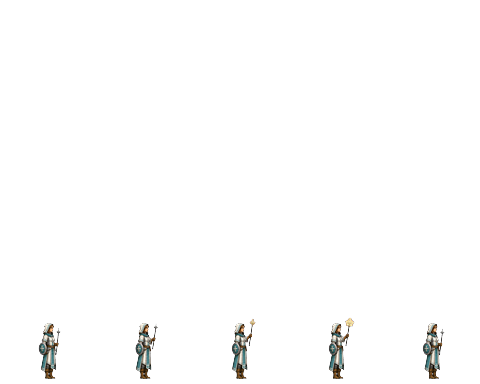
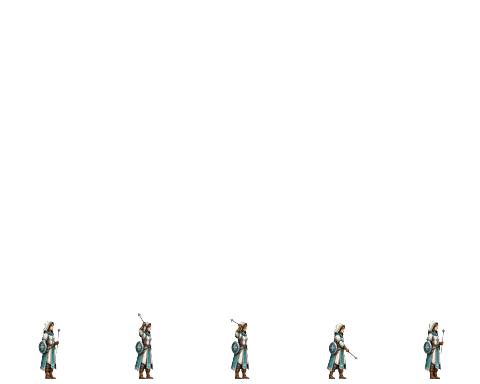
sprite: 僧侶の近接 attack を codex1 の melee 素材へ差替 (cast 流用を解消)
僧侶の attack シートは cast (詠唱) の 6F を [0,1,2,3,5] で間引いた流用で、
メイスを振る絵が 1 枚も無く「敵に殴りかかりながら祈っている」状態だった。
codex1 へ依頼した近接モーション (…-melee-right-6-v1) が納品されたので取り込む。

- 台帳 tools/codex1_sprites.json:
  - attack_dir を melee の -melee-right-safe-frame- 系統へ (raw-safe は未整列なので不採用)
  - ⚠ cast_dir を **明示**。省略時は attack_dir を流用する仕様のため、
    attack だけ差し替えると詠唱までメイス振りに化ける
  - attack_scale は 1.0 据置。auto は render_scale が cast にも掛かるため、
    cast_dir が別素材になった今は cast を -3.57% 縮め接地線を 1px ずらす
- 素材は walk と同一キャンバス・同一接地線で届いたため align 組み直し不要
- 差分は attack 2 枚のみ (walk / cast はバイト不変)
- index.html: cleric_attack ?v=4→5 (2箇所) / cleric_npcmale_attack に ?v=2 を新規付与 (3箇所)

受入ゲート: check_pose_alignment 両者 PASS (女 median +1.63% / 男 +0.00%)、
validate_sprite_outputs 両者 exit 0 (端接触なし)、md5 6/6 とも相違。
check_attack_scale --fail-on-warn = WARN 0 維持 (74/74 OK)。
driver_cleric_sprites 85/85 PASS / 負のコントロール(HEAD worktree) 77/85。
G7 は「cast と全コマ画素相違」へ反転し、N2 で HEAD 側に不具合が実在したことを画素で証明。

diff --git a/tools/driver_cleric_sprites.js b/tools/driver_cleric_sprites.js
@@ -4,9 +4,18 @@
  *
  *   node tools/driver_cleric_sprites.js [--headful] [--browser <path>] [--port N] [--root <dir>]
  *
- * 対象は index.html + tavern.html。2026-07-29 の差替内容:
+ * 対象は index.html + tavern.html。
+ *
+ * 第1段 (2026-07-29 `c32f785`) = 僧侶 4 種を codex1 素材へ差替:
  *   - 正規 (変種 index 0)  assets/cleric_{walk,attack,cast}.png         <- codex1 npc-female-cleric (**同名上書き**)
  *   - 変種 index 1-3 共有  assets/cleric_npcmale_{walk,attack,cast}.png <- codex1 npc-male-cleric v1b (新規)
+ *
+ * 第2段 (2026-07-29 本コミット) = **近接 attack を melee 素材へ差替**:
+ *   第1段の時点では codex1 素材に近接モーションが無く、attack は cast (詠唱) の 6F を
+ *   [0,1,2,3,5] で間引いた流用だった (= 殴りかかりながら祈っていた)。codex1 へ依頼した
+ *   …-melee-right-6-v1 が届いたので台帳の attack_dir を差し替え、同時に **cast_dir を明示**
+ *   した (省略すると attack_dir 流用で詠唱までメイス振りに化ける仕様のため)。
+ *   変わるのは attack 2 枚だけで、walk / cast はバイト不変。
  *
  *   G1  配線: SPRITE_VARIANTS.cleric / getSpriteSet が期待 URL を返す (変種 1-3 は同一 1 枚)
  *   G2  実体: 6 枚が 200 で読め、規格サイズ (walk/cast 576x384 / attack 480x384) である
@@ -14,15 +23,21 @@
  *   G4  重複コマ: row3 の全コマが互いに異なる (サイズ検査を素通りする軸)
  *   G5  当たり判定不変: CLASS_DEFS.cleric の displaySize / sprite
  *   G6  tavern: PARTY_PORTRAIT_SPRITES.cleric が 4 要素で全部 200
- *   G7  ⭐ cast 流用の証明: attack の 5 コマが cast の [0,1,2,3,5] と **画素シグネチャ一致**
+ *   G7  ⭐ **cast 流用が解消された証明**: attack の 5 コマが cast の [0,1,2,3,5] と画素シグネチャ
+ *          **不一致** (第1段では逆向きの assert = 一致 だった。melee 差替でここが反転する)
  *   G8  ⭐ cast の variant 対応: updateAllySprite が変種ごとに別の cast シートを出す
  *
  * ⚠ 本ドライバの肝は **同一 run に内包した負のコントロール** (N1-N5)。
  *    `/__head__/<path>` ルートで `git show HEAD:<path>` の生バイトを同時配信し、HEAD と作業ツリーを
  *    同じ物差しで測る。baseline が PASS するだけでは空振り (作業ツリーを 2 回測る事故) を検出できない。
  *
- * ⚠ 今回は正規 (index 0) が **同名上書き** なので、直前の戦士差替 (N4) とは向きが逆になる:
- *      N4 = 「正規シートは HEAD と画素が *異なる*」= 差替が本当に効いた証明 (?v= だけでは足りない)
+ * ⚠⚠ N ブロックは **第2段に合わせて書き直してある**。第1段の N (「HEAD の変種は旧 chibi」等) は
+ *    HEAD が c32f785 を含んだ時点で **自己失効** した (盗賊ドライバ driver_rogue_sprites.js と同じ現象)。
+ *    負のコントロールは「今回の差分」を測るものへ毎回更新しないと空振りする。現行の向き:
+ *      N1 = 「attack 2 枚は HEAD と画素が *相違*」 = melee 差替が本当に効いた証明 (?v= だけでは足りない)
+ *      N2 = 「HEAD の attack は HEAD の cast の [0,1,2,3,5] と *一致* していた」= 直した不具合の実在証明
+ *      N3 = 「walk / cast は HEAD と画素が *一致*」 = cast_dir 明示が cast を壊していない証明
+ *      N4 = 「HEAD の index.html は attack が ?v=4 / 変種は ?v= 無し」= bump の差分が実在する証明
  *      N5 = 「戦士シートは HEAD と画素が *一致する*」= 台帳 --all 再パックの巻き添えが無い証明
  *    「変えた」と「変えていない」の両方を正の assert として測る。
  *
@@ -196,15 +211,15 @@ window.__sprMeasure = async function (url, cell, cols, row) {
     check('(G1.1) SPRITE_VARIANTS.cleric が 4 変種のまま', wire.len === 4, wire.len);
     check('(G1.2) 変種 0 (正規) の walk = cleric_walk.png?v=3 (同名上書きなので ?v= bump 必須)',
       /assets\/cleric_walk\.png\?v=3/.test(wire.sets[0].walk), wire.sets[0].walk);
-    check('(G1.3) 変種 0 の attack = cleric_attack.png?v=4',
-      /assets\/cleric_attack\.png\?v=4/.test(wire.sets[0].attack), wire.sets[0].attack);
+    check('(G1.3) 変種 0 の attack = cleric_attack.png?v=5 (melee 差替で ?v=4 から bump)',
+      /assets\/cleric_attack\.png\?v=5/.test(wire.sets[0].attack), wire.sets[0].attack);
     check('(G1.4) 変種 0 の cast = cleric_cast.png?v=5',
       /assets\/cleric_cast\.png\?v=5/.test(wire.sets[0].cast || ''), wire.sets[0].cast);
     check('(G1.5) 変種 1-3 が cleric_npcmale_walk.png を共有',
       [1, 2, 3].every(v => /assets\/cleric_npcmale_walk\.png/.test(wire.sets[v].walk)),
       JSON.stringify(wire.sets.slice(1).map(s => s.walk)));
-    check('(G1.6) 変種 1-3 が cleric_npcmale_attack.png を共有',
-      [1, 2, 3].every(v => /assets\/cleric_npcmale_attack\.png/.test(wire.sets[v].attack)),
+    check('(G1.6) 変種 1-3 が cleric_npcmale_attack.png?v=2 を共有 (melee 差替で同名上書きになり ?v= を新規付与)',
+      [1, 2, 3].every(v => /assets\/cleric_npcmale_attack\.png\?v=2/.test(wire.sets[v].attack)),
       JSON.stringify(wire.sets.slice(1).map(s => s.attack)));
     check('(G1.7) ⭐ 変種 1-3 が **自分の** cast (cleric_npcmale_cast.png) を持つ',
       [1, 2, 3].every(v => /assets\/cleric_npcmale_cast\.png/.test(wire.sets[v].cast || '')),
@@ -215,18 +230,22 @@ window.__sprMeasure = async function (url, cell, cols, row) {
     check('(G1.9) 変種 1-3 に旧 chibi (elder/priestess/war) が残っていない',
       [1, 2, 3].every(v => !/cleric_(elder|priestess|war)_/.test(wire.sets[v].walk + wire.sets[v].attack + (wire.sets[v].cast || ''))),
       JSON.stringify(wire.sets.slice(1)));
-    check('(G1.10) 新規ファイル名なので ?v= を付けていない (同名上書きではない)',
-      [1, 2, 3].every(v => !/npcmale_[a-z]+\.png\?/.test(wire.sets[v].walk + wire.sets[v].attack + (wire.sets[v].cast || ''))),
-      JSON.stringify(wire.sets.slice(1).map(s => [s.walk, s.attack, s.cast])));
+    // ⚠ ?v= は「同名上書きの時だけ」付ける。機械的に全部へ付けるものではない。
+    //   walk / cast は第1段の新規ファイル名のまま中身も不変 = 付けない。
+    //   attack だけが第2段で同名上書きされたので ?v=2 を新規付与している。
+    check('(G1.10) 変種の walk / cast には ?v= を付けていない (中身が不変なので不要)',
+      [1, 2, 3].every(v => !/npcmale_walk\.png\?/.test(wire.sets[v].walk)
+                        && !/npcmale_cast\.png\?/.test(wire.sets[v].cast || '')),
+      JSON.stringify(wire.sets.slice(1).map(s => [s.walk, s.cast])));
     check('(G1.11) label は 3 種のまま (内部識別子は温存)',
       wire.sets[1].label === '老神官' && wire.sets[2].label === '女神官' && wire.sets[3].label === '戦僧',
       JSON.stringify(wire.sets.map(s => s.label)));
     check('(G1.12) 全変種のシート寸法指定が規格どおり (walk/cast 576x384, attack 480x384)',
       wire.sets.every(s => s.ws === '576px 384px' && s.as === '480px 384px' && s.cs === '576px 384px'),
       JSON.stringify(wire.sets.map(s => [s.ws, s.as, s.cs])));
-    check('(G1.13) 主人公用 LEADER_SPRITES.cleric も ?v=3 / ?v=4 へ bump 済み',
+    check('(G1.13) 主人公用 LEADER_SPRITES.cleric も ?v=3 / ?v=5 へ bump 済み (取り残しなし)',
       !!wire.player && /cleric_walk\.png\?v=3/.test(wire.player.walk)
-        && /cleric_attack\.png\?v=4/.test(wire.player.attack),
+        && /cleric_attack\.png\?v=5/.test(wire.player.attack),
       JSON.stringify(wire.player));
     check('(G1.14) cleric は専用シートクラスのまま', wire.custom === true, wire.custom);
     check('(G1.15) cleric は cast シートクラスのまま', wire.castCls === true, wire.castCls);
@@ -235,10 +254,10 @@ window.__sprMeasure = async function (url, cell, cols, row) {
     // ── G2 実体 (404 なし / 規格サイズ) ─────────────────────
     const sheets = [
       ['cleric_walk.png?v=3',        WALK_SIZE, 6],
-      ['cleric_attack.png?v=4',      ATK_SIZE,  5],
+      ['cleric_attack.png?v=5',      ATK_SIZE,  5],
       ['cleric_cast.png?v=5',        WALK_SIZE, 6],
       ['cleric_npcmale_walk.png',    WALK_SIZE, 6],
-      ['cleric_npcmale_attack.png',  ATK_SIZE,  5],
+      ['cleric_npcmale_attack.png?v=2', ATK_SIZE, 5],
       ['cleric_npcmale_cast.png',    WALK_SIZE, 6],
       ['warrior_walk.png?v=8',       WALK_SIZE, 6],
     ];
@@ -315,16 +334,19 @@ window.__sprMeasure = async function (url, cell, cols, row) {
       /cleric_walk\.png\?v=3/.test(hit.sprite || ''), hit.sprite);
     check('(G5.3) 戦士の displaySize も 96 のまま (回帰なし)', hit.wdisp === 96, hit.wdisp);
 
-    // ── G7 ⭐ cast 流用の証明 ────────────────────────────────
-    // codex1 素材に近接モーションが無いため attack は cast の 6F を [0,1,2,3,5] で間引いたもの。
-    // 「そのつもりだった」ではなく画素シグネチャで実際にそうなっていることを測る。
+    // ── G7 ⭐ cast 流用が解消されたことの証明 ────────────────
+    // 第1段では attack が cast の 6F を [0,1,2,3,5] で間引いた流用だったので、この assert は
+    // 「全コマ一致」を PASS 条件にしていた。第2段の melee 差替でその向きが **反転する**。
+    // ⚠ 「1 コマでも違う」ではなく **全 5 コマとも別画素** を条件にする。melee は独立に描かれた
+    //    別モーションなので、たまたま 1 コマだけ一致することは無い。緩い条件にすると
+    //    「半分だけ差し替わった」ような中途半端な事故を見逃す。
     for (const [tag, a, c] of [['正規', 'cleric_attack.png', 'cleric_cast.png'],
                                ['変種', 'cleric_npcmale_attack.png', 'cleric_npcmale_cast.png']]) {
       const af = measured[a].frames, cf = measured[c].frames;
-      const okAll = af.length === 5 && cf.length === 6 &&
-        ATTACK_KEYS.every((k, i) => af[i] && cf[k] && af[i].sig === cf[k].sig);
-      check('(G7) ' + tag + ': attack 5 コマが cast の [0,1,2,3,5] と画素一致 (cast 流用が実際に効いている)',
-        okAll, JSON.stringify([af.map(f => f && f.sig), cf.map(f => f && f.sig)]));
+      const allDiffer = af.length === 5 && cf.length === 6 &&
+        ATTACK_KEYS.every((k, i) => af[i] && cf[k] && af[i].sig !== cf[k].sig);
+      check('(G7) ⭐ ' + tag + ': attack 5 コマが cast の [0,1,2,3,5] と **全コマ画素相違** (cast 流用の解消)',
+        allDiffer, JSON.stringify([af.map(f => f && f.sig), cf.map(f => f && f.sig)]));
     }
 
     // ── G8 ⭐ cast の variant 対応 (統合検証) ────────────────
@@ -360,47 +382,72 @@ window.__sprMeasure = async function (url, cell, cols, row) {
       !!castApplied.urls[0] && castApplied.urls[0] !== castApplied.urls[1],
       JSON.stringify([castApplied.urls[0], castApplied.urls[1]]));
 
-    // ── N1-N2 負のコントロール (HEAD の生バイトと比較) ──────
-    const headNew = await page.evaluate(async () => {
-      try { await window.__sprMeasure('/__head__/assets/cleric_npcmale_walk.png', 96, 6, 3); return 'loaded'; }
-      catch (e) { return 'missing'; }
-    });
-    check('(N1) HEAD に cleric_npcmale_walk.png は存在しない (新規追加である証明)',
-      headNew === 'missing', headNew);
+    // ── N1 ⭐ 「変えた」ことの正の assert (attack は同名上書き) ──
+    // ⚠ HEAD は既に第1段 (c32f785) を含むので、第1段を測る N (旧 chibi 参照 / 58px→56px /
+    //    cast が walk より 19% 大きい 等) は **自己失効している**。ここは第2段だけを測る。
+    const headAtkF = await page.evaluate(() => window.__sprMeasure('/__head__/assets/cleric_attack.png', 96, 5, 3))
+      .catch(e => ({ err: String(e && e.message || e), frames: [] }));
+    const headAtkM = await page.evaluate(() => window.__sprMeasure('/__head__/assets/cleric_npcmale_attack.png', 96, 5, 3))
+      .catch(e => ({ err: String(e && e.message || e), frames: [] }));
+    check('(N1.1) HEAD の cleric_attack.png を配信できている (対照群が空振りでない)',
+      !headAtkF.err && headAtkF.w === 480, JSON.stringify({ w: headAtkF.w, err: headAtkF.err }));
+    check('(N1.2) HEAD の cleric_npcmale_attack.png を配信できている',
+      !headAtkM.err && headAtkM.w === 480, JSON.stringify({ w: headAtkM.w, err: headAtkM.err }));
+    for (const [tag, head, key] of [['正規', headAtkF, 'cleric_attack.png'],
+                                    ['変種', headAtkM, 'cleric_npcmale_attack.png']]) {
+      check('(N1.3) ⭐ ' + tag + ' の attack は HEAD と画素シグネチャが全コマ相違 = melee 差替が本当に効いている',
+        !!head.frames && head.frames.length === 5 &&
+        head.frames.every((f, i) => f && measured[key].frames[i] && f.sig !== measured[key].frames[i].sig),
+        JSON.stringify([head.frames && head.frames.map(f => f && f.sig),
+                        measured[key].frames.map(f => f && f.sig)]));
+    }
 
+    // ── N2 ⭐ 直した不具合が HEAD に実在したことの証明 ───────
+    // G7 の反転前の向き (attack が cast の [0,1,2,3,5] 間引き) を **HEAD 側で** 測る。
+    // これが PASS して初めて「G7 の反転は実際の修正によるもので、assert を緩めただけではない」と言える。
+    const headCastF = await page.evaluate(() => window.__sprMeasure('/__head__/assets/cleric_cast.png', 96, 6, 3))
+      .catch(e => ({ err: String(e && e.message || e), frames: [] }));
+    const headCastM = await page.evaluate(() => window.__sprMeasure('/__head__/assets/cleric_npcmale_cast.png', 96, 6, 3))
+      .catch(e => ({ err: String(e && e.message || e), frames: [] }));
+    for (const [tag, ha, hc] of [['正規', headAtkF, headCastF], ['変種', headAtkM, headCastM]]) {
+      check('(N2) ⭐ ' + tag + ': HEAD では attack が cast の [0,1,2,3,5] と全コマ画素一致だった (cast 流用の実在証明)',
+        !!ha.frames && ha.frames.length === 5 && !!hc.frames && hc.frames.length === 6 &&
+        ATTACK_KEYS.every((k, i) => ha.frames[i] && hc.frames[k] && ha.frames[i].sig === hc.frames[k].sig),
+        JSON.stringify([ha.frames && ha.frames.map(f => f && f.sig), hc.frames && hc.frames.map(f => f && f.sig)]));
+    }
+
+    // ── N3 ⭐ 「変えていない」ことの正の assert (walk / cast) ──
+    // cast_dir を台帳へ明示した副作用で cast が動いていないか、画素で確かめる。
+    // ⚠ ここが落ちたら cast_dir の指し先を間違えている (= 詠唱がメイス振りに化けている)。
+    const headWalkF = await page.evaluate(() => window.__sprMeasure('/__head__/assets/cleric_walk.png', 96, 6, 3))
+      .catch(e => ({ err: String(e && e.message || e), frames: [] }));
+    const headWalkM = await page.evaluate(() => window.__sprMeasure('/__head__/assets/cleric_npcmale_walk.png', 96, 6, 3))
+      .catch(e => ({ err: String(e && e.message || e), frames: [] }));
+    for (const [tag, head, key] of [['正規 walk', headWalkF, 'cleric_walk.png'],
+                                    ['変種 walk', headWalkM, 'cleric_npcmale_walk.png'],
+                                    ['正規 cast', headCastF, 'cleric_cast.png'],
+                                    ['変種 cast', headCastM, 'cleric_npcmale_cast.png']]) {
+      check('(N3) ⭐ ' + tag + ' は HEAD と画素シグネチャが全コマ一致 = cast_dir 明示で壊していない',
+        !!head.frames && head.frames.length === 6 &&
+        head.frames.every((f, i) => f && measured[key].frames[i] && f.sig === measured[key].frames[i].sig),
+        JSON.stringify([head.frames && head.frames.map(f => f && f.sig),
+                        measured[key].frames.map(f => f && f.sig)]));
+    }
+
+    // ── N4 ⭐ ?v= bump の差分が実在することの証明 ─────────────
     const headIdx = headBytes('index.html');
-    const headVarLines = headIdx
-      ? String(headIdx).split('\n').filter(l => /cleric_(elder|priestess|war)_walk\.png/.test(l))
-      : [];
-    check('(N2.1) HEAD の index.html を取得できている', !!headIdx, '(git show 失敗)');
-    check('(N2.2) HEAD の僧侶変種 3 行は旧 chibi を指す (差分が実在する)',
-      headVarLines.length === 3, headVarLines.length + ' 行');
-    check('(N2.3) 作業ツリーでは旧 chibi 参照が消えている',
-      !wire.sets.some(s => /cleric_(elder|priestess|war)_/.test(s.walk + s.attack + (s.cast || ''))),
-      JSON.stringify(wire.sets.map(s => s.walk)));
-    const headCastLine = headIdx
-      ? String(headIdx).split('\n').filter(l => /setAllySpriteSheet\(ally,\s*CLERIC_CAST_URL/.test(l)) : [];
-    check('(N2.4) ⭐ HEAD では cast が variant 非対応 (CLERIC_CAST_URL 直参照) だった',
-      headCastLine.length >= 1, headCastLine.length + ' 行');
-
-    // ── N4 ⭐ 「変えた」ことの正の assert (正規は同名上書き) ──
-    const headCleric = await page.evaluate(() => window.__sprMeasure('/__head__/assets/cleric_walk.png', 96, 6, 3))
-      .catch(e => ({ err: String(e && e.message || e), frames: [] }));
-    check('(N4.1) HEAD の cleric_walk.png を配信できている (対照群が空振りでない)',
-      !headCleric.err && headCleric.w === 576, JSON.stringify({ w: headCleric.w, err: headCleric.err }));
-    check('(N4.2) ⭐ 正規シートは HEAD と画素シグネチャが全コマ相違 = 同名上書きが本当に効いている',
-      !!headCleric.frames && headCleric.frames.length === 6 &&
-      headCleric.frames.every((f, i) => f && measured['cleric_walk.png'].frames[i] &&
-                                        f.sig !== measured['cleric_walk.png'].frames[i].sig),
-      JSON.stringify([headCleric.frames && headCleric.frames.map(f => f && f.sig),
-                      measured['cleric_walk.png'].frames.map(f => f && f.sig)]));
-    check('(N4.3) HEAD の僧侶は 58px だった (今回 56px へ揃えた差分が実在する)',
-      med(headCleric) === 58 && fw === 56, 'HEAD=' + med(headCleric) + ' NOW=' + fw);
-    const headCast = await page.evaluate(() => window.__sprMeasure('/__head__/assets/cleric_cast.png', 96, 6, 3))
-      .catch(e => ({ err: String(e && e.message || e), frames: [] }));
-    check('(N4.4) ⭐ HEAD の cast は walk より 15% 以上大きかった (詠唱時に膨らむ既存不揃いの実在証明)',
-      !headCast.err && (med(headCast) - med(headCleric)) / med(headCleric) > 0.15,
-      'HEAD cast=' + med(headCast) + ' HEAD walk=' + med(headCleric));
+    const headTxt = headIdx ? String(headIdx) : '';
+    check('(N4.1) HEAD の index.html を取得できている', !!headIdx, '(git show 失敗)');
+    check('(N4.2) ⭐ HEAD では正規 attack が ?v=4 だった (bump の差分が実在する)',
+      /cleric_attack\.png\?v=4/.test(headTxt) && !/cleric_attack\.png\?v=5/.test(headTxt),
+      'v4=' + /cleric_attack\.png\?v=4/.test(headTxt) + ' v5=' + /cleric_attack\.png\?v=5/.test(headTxt));
+    check('(N4.3) ⭐ HEAD では変種 attack に ?v= が無かった (新規付与の差分が実在する)',
+      /cleric_npcmale_attack\.png"/.test(headTxt) && !/cleric_npcmale_attack\.png\?v=/.test(headTxt),
+      'bare=' + /cleric_npcmale_attack\.png"/.test(headTxt));
+    check('(N4.4) 作業ツリーには ?v=4 の取り残しが無い',
+      !wire.sets.some(s => /cleric_attack\.png\?v=4/.test(s.attack))
+        && !/cleric_attack\.png\?v=4/.test(wire.player ? wire.player.attack : ''),
+      JSON.stringify([wire.sets.map(s => s.attack), wire.player && wire.player.attack]));
 
     // ── N5 ⭐ 「変えていない」ことの正の assert ──────────────
     // 台帳 --all の再パックで他職 (戦士) が巻き添えになっていないかを画素で見る。
@@ -468,14 +515,22 @@ window.__sprMeasure = async function (url, cell, cols, row) {
     check('(G6.7) cleric のポートレート 4 URL がすべて 200 かつ 576x384',
       loaded.every(x => x.ok), JSON.stringify(loaded));
 
-    // ── N3 負のコントロール (HEAD の tavern) ────────────────
+    // ── N6 負のコントロール (HEAD の tavern) ────────────────
+    // ⚠ 第1段では「HEAD のポートレートは旧 chibi」を測っていたが、HEAD が c32f785 を含んだ時点で
+    //    **自己失効**した (N1 の注記と同じ現象)。第2段が tavern.html で触るのは changelog の
+    //    <li> だけでポートレート配線には無関係なので、ここでの正しい負のコントロールは
+    //    「ポートレート 4 URL が HEAD と **完全一致**」= 配線を巻き添えにしていない証明。
     const headTav = headBytes('tavern.html');
     const headLine = headTav ? String(headTav).split('\n').find(l => /cleric:\s*\["assets\/cleric_walk/.test(l)) : null;
-    check('(N3.1) HEAD の tavern.html を取得できている', !!headLine, headTav ? '(cleric 行なし)' : '(git show 失敗)');
-    check('(N3.2) HEAD の cleric ポートレートは旧 chibi を指す (差分が実在する)',
-      !!headLine && /cleric_elder_walk\.png/.test(headLine) && /cleric_war_walk\.png/.test(headLine),
-      (headLine || '').trim().slice(0, 140));
-    check('(N3.3) 作業ツリーでは旧 chibi 参照が消えている',
+    check('(N6.1) HEAD の tavern.html を取得できている', !!headLine, headTav ? '(cleric 行なし)' : '(git show 失敗)');
+    const headPort = headLine ? (headLine.match(/assets\/cleric[a-z_]*\.png/g) || []) : [];
+    check('(N6.2) ⭐ HEAD と作業ツリーで cleric ポートレート 4 URL が完全一致 = 第2段はポートレート配線を触っていない',
+      headPort.length === 4 && port.cleric.length === 4 &&
+      headPort.every((u, i) => port.cleric[i] === u),
+      JSON.stringify([headPort, port.cleric]));
+    check('(N6.3) HEAD 側にも ?v= が付いていない (素パスの明文ルールが第1段から維持されている)',
+      !!headLine && !/cleric[a-z_]*\.png\?v=/.test(headLine), (headLine || '').trim().slice(0, 140));
+    check('(N6.4) 作業ツリーでは旧 chibi 参照が消えている',
       !port.cleric.some(u => /cleric_(elder|priestess|war)_/.test(u)), JSON.stringify(port.cleric));
 
     await page.close();

diff --git a/index.html b/index.html
@@ -3776,7 +3776,7 @@
                  guard: WARRIOR_GUARD },
       dwarf:   { walk: 'url("assets/dwarf_walk.png?v=5")',   attack: 'url("assets/dwarf_attack.png?v=5")',
                  walkSize: "576px 384px", attackSize: "480px 384px" },
-      cleric:  { walk: 'url("assets/cleric_walk.png?v=3")',  attack: 'url("assets/cleric_attack.png?v=4")',
+      cleric:  { walk: 'url("assets/cleric_walk.png?v=3")',  attack: 'url("assets/cleric_attack.png?v=5")',
                  walkSize: "576px 384px", attackSize: "480px 384px" },
       mage:    { walk: 'url("assets/mage_walk.png?v=4")',    attack: 'url("assets/mage_attack.png?v=4")',
                  walkSize: "576px 384px", attackSize: "480px 384px" },
@@ -11352,7 +11352,7 @@
     const DWARF_ATTACK_SIZE = "480px 384px";
     const CLERIC_WALK_URL   = 'url("assets/cleric_walk.png?v=3")';
     const CLERIC_WALK_SIZE  = "576px 384px";
-    const CLERIC_ATTACK_URL = 'url("assets/cleric_attack.png?v=4")';
+    const CLERIC_ATTACK_URL = 'url("assets/cleric_attack.png?v=5")';
     const CLERIC_ATTACK_SIZE = "480px 384px";
     const MAGE_WALK_URL     = 'url("assets/mage_walk.png?v=4")';
     const MAGE_WALK_SIZE    = "576px 384px";
@@ -11423,15 +11423,17 @@
         // assets/cleric_{elder,priestess,war}_* に残置)。dwarf / mage / rogue / warrior と同じ扱い =
         // label はどこからも読まれない内部識別子なので、将来 codex1 側で別デザインが出たら該当行の
         // url だけ差し替えれば再び 3 種に割れる。
-        // ⚠ codex1 素材に近接攻撃モーションが無いため attack は cast (詠唱) の 5F 間引きで代用中。
-        //   メイスを振る素材が納品されたら台帳の attack_dir を差し替えて --all するだけで直る。
+        // ⚠ attack は 2026-07-29 に codex1 の melee 素材 (杖を振り下ろす物理攻撃) へ差し替えた。
+        //   それ以前は近接素材が無く cast (詠唱) の 5F 間引きで代用しており、殴りかかりながら
+        //   祈っているように見えていた。walk / cast のバイトは差替前後で不変。
+        //   ⚠ 同名上書きになったので attack だけ ?v=2 を新規付与している (walk / cast は不要)。
         // ⚠ tavern.html の PARTY_PORTRAIT_SPRITES は同じ PNG を **素パス** で参照する (あちらは
         //   「?v= を付けない」が明文ルール = tavern.html の該当コメント参照)。差替時は両方を見ること。
-        { walk: 'url("assets/cleric_npcmale_walk.png")', walkSize: "576px 384px", attack: 'url("assets/cleric_npcmale_attack.png")', attackSize: "480px 384px",
+        { walk: 'url("assets/cleric_npcmale_walk.png")', walkSize: "576px 384px", attack: 'url("assets/cleric_npcmale_attack.png?v=2")', attackSize: "480px 384px",
           cast: CLERIC_NPCMALE_CAST_URL, castSize: CLERIC_CAST_SIZE, label: "老神官" },
-        { walk: 'url("assets/cleric_npcmale_walk.png")', walkSize: "576px 384px", attack: 'url("assets/cleric_npcmale_attack.png")', attackSize: "480px 384px",
+        { walk: 'url("assets/cleric_npcmale_walk.png")', walkSize: "576px 384px", attack: 'url("assets/cleric_npcmale_attack.png?v=2")', attackSize: "480px 384px",
           cast: CLERIC_NPCMALE_CAST_URL, castSize: CLERIC_CAST_SIZE, label: "女神官" },
-        { walk: 'url("assets/cleric_npcmale_walk.png")', walkSize: "576px 384px", attack: 'url("assets/cleric_npcmale_attack.png")', attackSize: "480px 384px",
+        { walk: 'url("assets/cleric_npcmale_walk.png")', walkSize: "576px 384px", attack: 'url("assets/cleric_npcmale_attack.png?v=2")', attackSize: "480px 384px",
           cast: CLERIC_NPCMALE_CAST_URL, castSize: CLERIC_CAST_SIZE, label: "戦僧" },
       ],
       mage: [

diff --git a/tavern.html b/tavern.html
@@ -1979,10 +1979,10 @@
     <div id="changelogBox">
       <div class="changelogHeader">📜 更新情報</div>
       <ul class="changelogList">
+        <li><b>僧侶が杖を振り下ろして殴るようになった</b> — これまで近接攻撃のときも祈りの仕草をしていた僧侶に、武器を振り抜く専用モーションを追加。</li>
         <li><b>闇市の依頼がクリアできない不具合を修正</b> — ボスを倒しても討伐が終わらず、探索フェーズが延々と続いてしまう問題を解消した。</li>
         <li><b>僧侶の姿を一新</b> — 主人公と仲間の僧侶が新しい絵柄に。呪文を唱える姿も一人ひとり別々になった。</li>
         <li><b>仲間の戦士の姿を一新</b> — 酒場で加わる戦士の仲間が、深紅の髪に丸盾と剣を備えた歴戦の女戦士の姿になった。背丈も主人公と揃っている。</li>
-        <li><b>盗賊の姿を一新</b> — 主人公も仲間も描き下ろしのスプライトへ。背丈がパーティ全員と揃った。</li>
       </ul>
     </div>
     <script>
